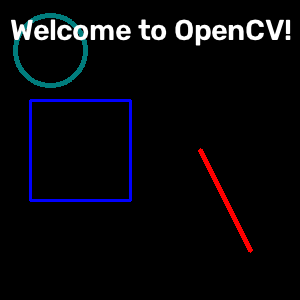
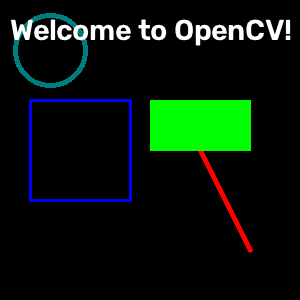
补充了有关'画形状'的一个细节

Changed region(s): [[0.48, 0.33, 0.84, 0.51]]

diff --git a/src/3.simple_draw/main.py b/src/3.simple_draw/main.py
@@ -8,7 +8,9 @@ canvas = np.zeros([300, 300, 3], dtype=np.uint8); # 创建一个宽 & 高都是3
 cv2.line(canvas, (200,150), (250, 250), (0,0,255), 3);
 
 # cv2.rectangle(numpy数组对象, (x,y终点坐标), (线段B, G, R颜色), 线条粗细))
+# Tips: 这里的'线条粗细'可以填'-1', 表示"实心填充"
 cv2.rectangle(canvas,(30,100),(130,200), (255,0,0), 2);
+cv2.rectangle(canvas,(150,100),(250,150), (0,255,0), -1);
 
 # cv2.circle(numpy数组对象, (x,y圆心坐标), 半径, (线段B, G, R颜色), 线条粗细))
 cv2.circle(canvas, (50,50), 35, (125,125,0), 3);
